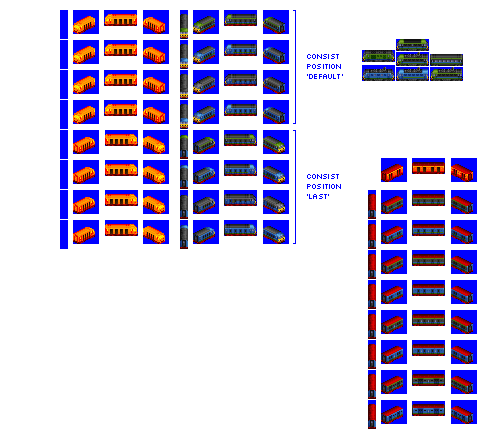
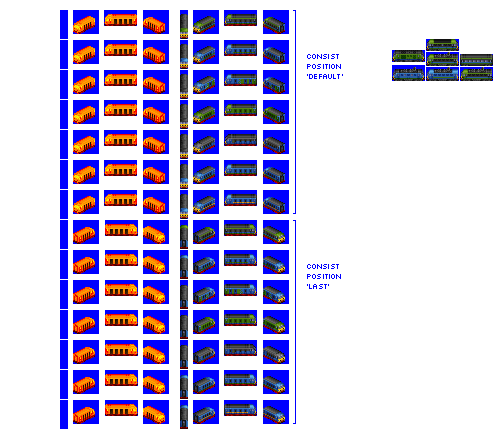
Change: add gen 6 liveries to gen 5 high speed mail driving cab

diff --git a/src/vehicles/pony/driving_cab_high_speed_mail_pony_gen_5.py b/src/vehicles/pony/driving_cab_high_speed_mail_pony_gen_5.py
@@ -10,7 +10,8 @@ def main(roster_id, **kwargs):
         role_child_branch_num=-2,  # driving cab cars are probably jokers?
         gen=5,
         lgv_capable=True,  # for lolz
-        sprites_complete=True,  # !! needs gen 6 pax liveries - add later
+        liveries="gen_5_and_6_mail_liveries",  # override default liveries from gestalt
+        sprites_complete=True,
     )
 
     consist.add_unit(type=CabbageDVTUnit, weight=32, chassis="railcar_32px")
